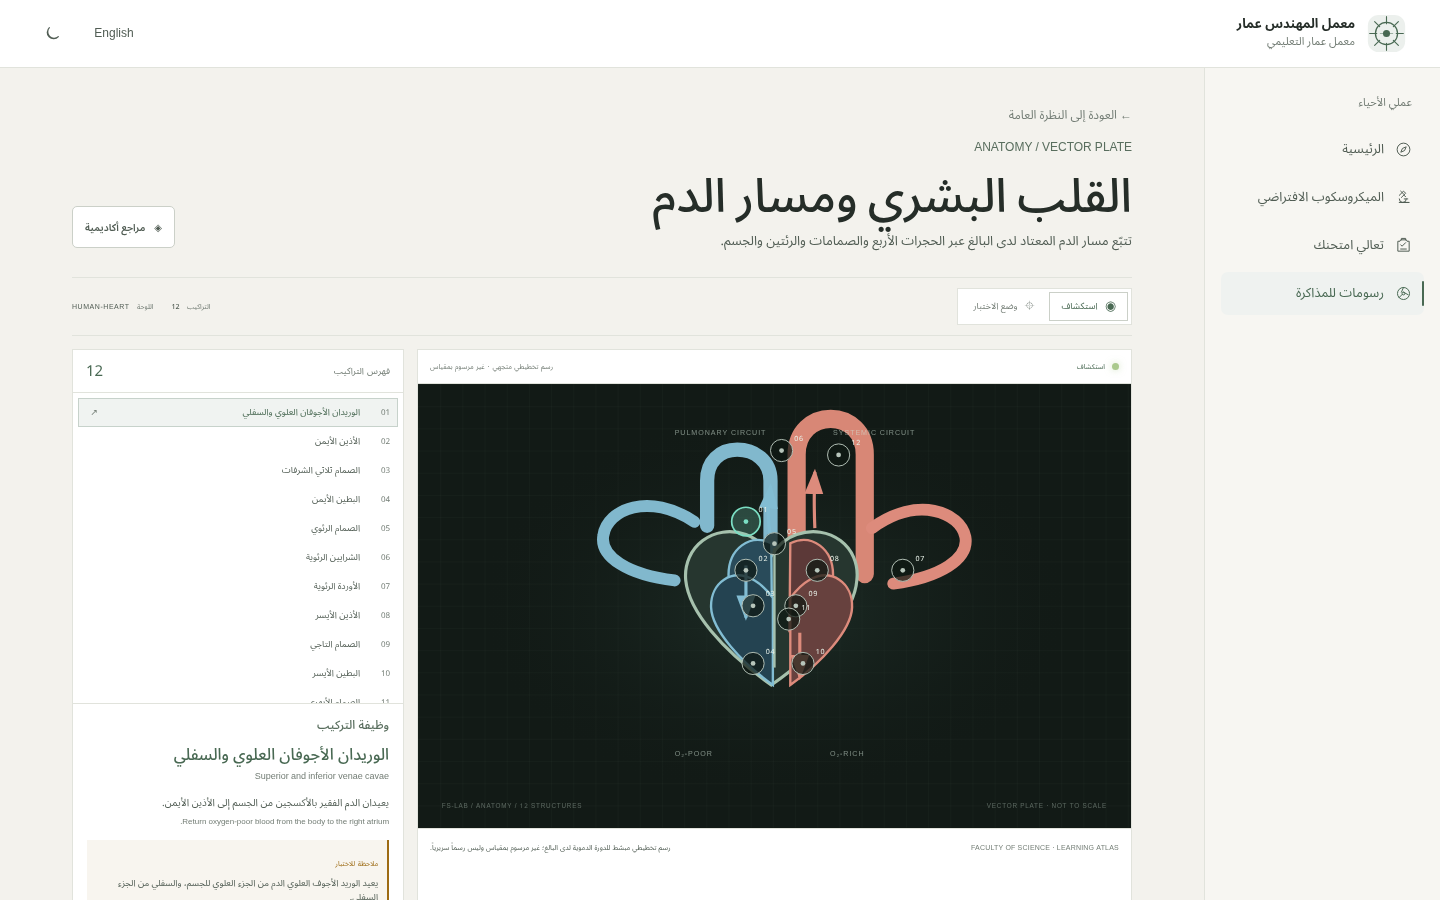
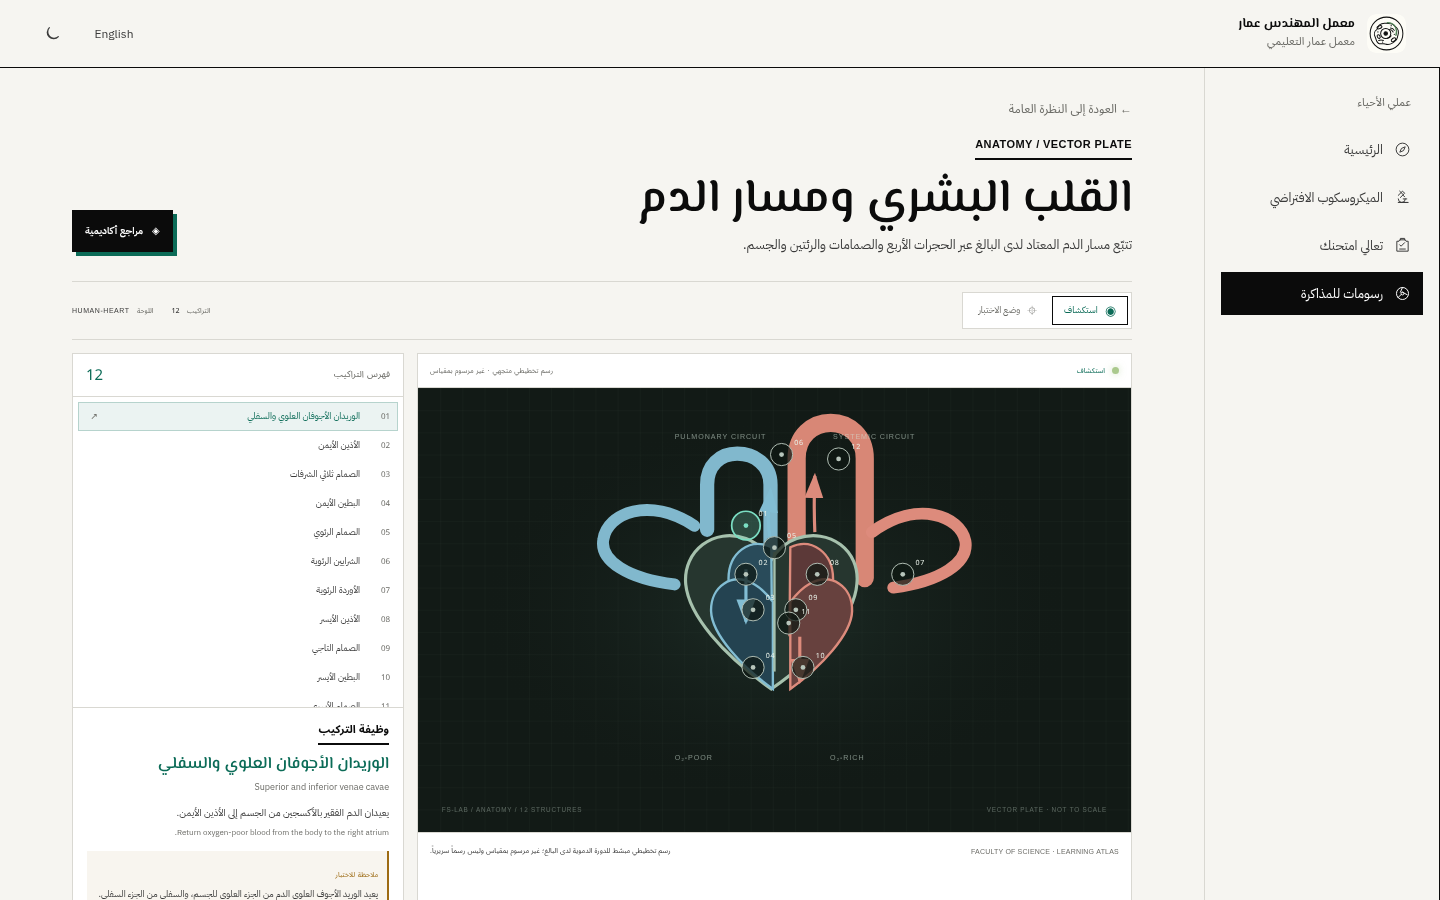
README: new screenshots from the current live site

diff --git a/README.md b/README.md
@@ -6,13 +6,13 @@ A free bilingual (Arabic / English) virtual biology lab for Faculty of Science s
 
 > **Designed and built by Ammar Hossam Alqahran.** The interface, layout, interactions, exam logic and bilingual content structure are my own work. The specimen photographs are **not** mine: they come from Wikimedia Commons and other open sources, credited below.
 
-| Home | Practical exams |
+| Home | Virtual microscope |
 | --- | --- |
-| ![Home page](docs/screenshots/home.png) | ![Practical exam room](docs/screenshots/exams.png) |
+| ![Home page](docs/screenshots/home.png) | ![Virtual microscope](docs/screenshots/microscope.png) |
 
-| Study diagrams |
-| --- |
-| ![Interactive heart diagram](docs/screenshots/schemas.png) |
+| Practical exams | Study diagrams |
+| --- | --- |
+| ![Practical exam room](docs/screenshots/exams.png) | ![Interactive heart diagram](docs/screenshots/schemas.png) |
 
 ## Features
 
